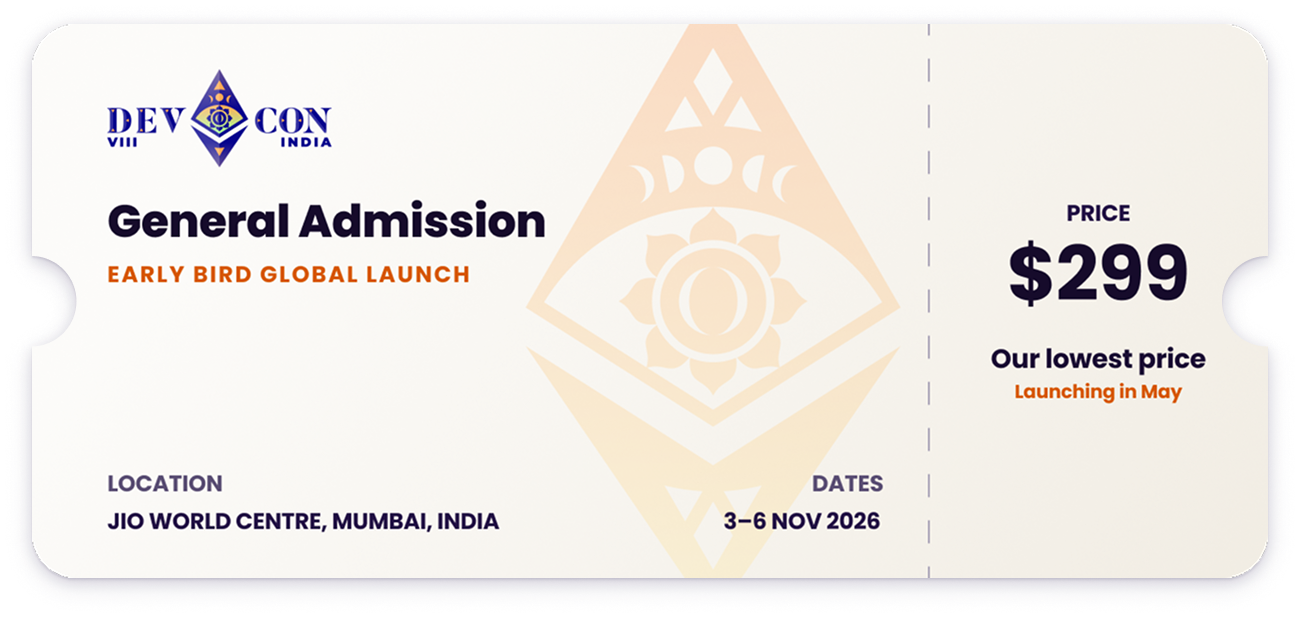
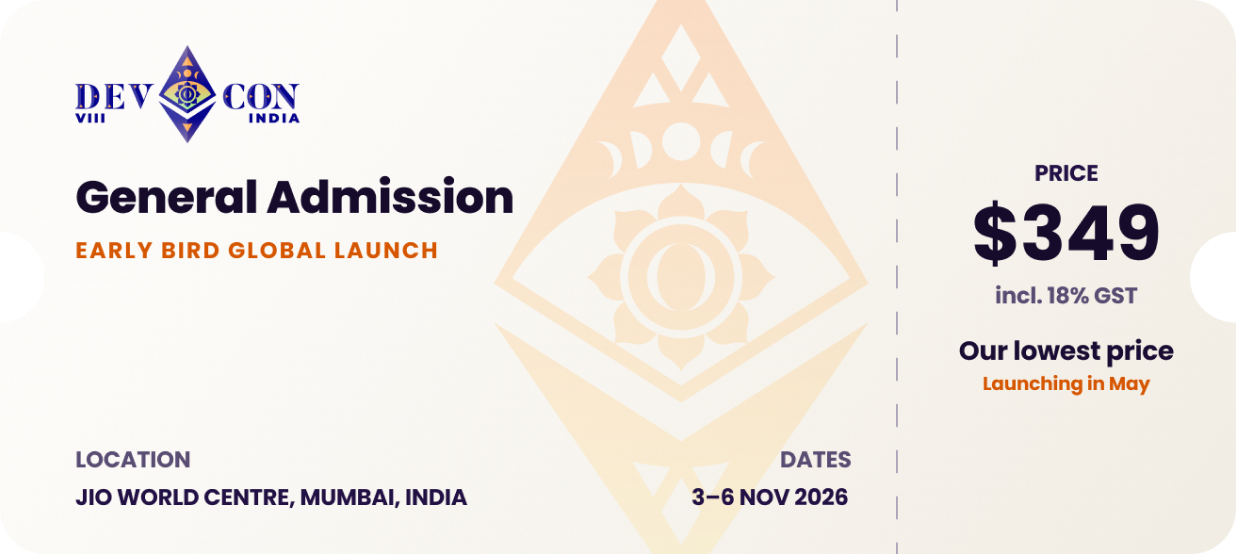
store page copy

diff --git a/devcon/src/pages/tickets/store/index.tsx b/devcon/src/pages/tickets/store/index.tsx
@@ -8,7 +8,7 @@ import themes from '../../themes.module.scss'
 // import { VerificationModal } from 'components/domain/tickets/VerificationModal'
 import { SelfVerificationModal } from 'components/domain/tickets/SelfVerificationModal'
 import { Input } from '@/components/ui/input'
-import { ArrowLeft, CalendarDays, MapPin } from 'lucide-react'
+import { ArrowLeft, ArrowRight, CalendarDays, MapPin } from 'lucide-react'
 import css from './store.module.scss'
 
 // Strip trailing .00 from round prices (e.g. "99.00" → "99", "99.50" → "99.50")
@@ -436,7 +436,60 @@ function StoreContent({
               )}
             </section> */}
 
-            {displayVoucherTickets.length > 0 && (
+            <section className={css['section']} id="applications">
+              <div className={css['section-header']}>
+                <div className={css['section-title-row']}>
+                  <h3 className={css['section-title']}>Applications</h3>
+                  <span className={css['live-badge']}>LIVE</span>
+                </div>
+                <p className={css['section-subtitle']}>
+                  Student ticket applications are now open. Supply is limited so apply early!
+                </p>
+              </div>
+
+              <div className={css['applications-grid']}>
+                <div className={css['application-card']}>
+                  <div className={css['application-card-body']}>
+                    <h3 className={css['application-card-title']}>Indian Students 🇮🇳</h3>
+                    <p className={css['application-card-meta']}>Student ID required at check-in</p>
+                    <p className={css['application-card-description']}>
+                      1000 discounts will be distributed to Indian students looking to dive deeper into the free and
+                      open world of Ethereum.
+                    </p>
+                  </div>
+                  <div className={css['application-card-footer']}>
+                    <span className={css['application-price']}>$25</span>
+                    <Link to="/form/student-application" className={css['apply-btn']}>
+                      Apply now
+                      <ArrowRight size={16} strokeWidth={2.5} />
+                    </Link>
+                  </div>
+                </div>
+
+                <div className={css['application-card']}>
+                  <div className={css['application-card-body']}>
+                    <h3 className={css['application-card-title']}>International Students 🌎</h3>
+                    <p className={css['application-card-meta']}>Student ID required at check-in</p>
+                    <p className={css['application-card-description']}>
+                      An additional 1000 discounts will be distributed to international students who wish to join us in
+                      Mumbai to explore Ethereum.
+                    </p>
+                  </div>
+                  <div className={css['application-card-footer']}>
+                    <span className={css['application-price']}>$99</span>
+                    <Link to="/form/student-application" className={css['apply-btn']}>
+                      Apply now
+                      <ArrowRight size={16} strokeWidth={2.5} />
+                    </Link>
+                  </div>
+                </div>
+              </div>
+
+              <p className={css['gst-note']}>Prices include 18% GST</p>
+            </section>
+
+            {/* Legacy Self.xyz Early Access flow — hidden for now, kept for future re-activation */}
+            {false && displayVoucherTickets.length > 0 && (
               <section className={css['section']} id="discounts">
                 <div className={css['section-header']}>
                   <div className={css['section-title-row']}>
@@ -591,57 +644,50 @@ function StoreContent({
                 <div className={css['coming-soon-card']}>
                   <div className={css['coming-soon-card-body']}>
                     <h3 className={css['coming-soon-card-title']}>{'Early Bird GA \ud83d\udc24'}</h3>
-                    <p className={css['card-meta']}>Launching later this year</p>
+                    <p className={css['card-meta']}>Launches May 12</p>
                     <p className={css['card-description']}>
                       Early-bird discount of the original, anon-friendly Devcon ticket.
                     </p>
                   </div>
                   <div className={css['coming-soon-card-footer']}>
                     <div className={css['coming-soon-card-pricing']}>
-                      <span className={css['coming-soon-price']}>$299</span>
-                      <span className={css['coming-soon-price-original']}>$599</span>
+                      <span className={css['coming-soon-price']}>$349</span>
+                      <span className={css['coming-soon-price-original']}>$699</span>
                     </div>
-                    <span className={css['coming-soon-availability']}>Coming soon!</span>
+                    <span className={css['coming-soon-availability']}>Our lowest price</span>
                   </div>
                 </div>
 
-                {/* <div className={css['coming-soon-card']}>
-                  <div className={css['coming-soon-card-body']}>
-                    <h3 className={css['coming-soon-card-title']}>{'Youth Ticket (3\u201317) \ud83c\udf31'}</h3>
-                    <p className={css['card-meta']}>Consent form submission & ID/proof required at Registration.</p>
-                    <p className={css['card-description']}>
-                      {"Whether you're a younger attendee, or bringing your child."}
-                    </p>
-                  </div>
-                  <div className={css['coming-soon-card-footer']}>
-                    <div className={css['coming-soon-card-pricing']}>
-                      <span className={css['coming-soon-price']}>$19</span>
-                    </div>
-                    <span className={css['coming-soon-availability']}>Coming soon!</span>
-                  </div>
-                </div> */}
-
                 <div className={css['coming-soon-card']}>
                   <div className={css['coming-soon-card-body']}>
-                    <h3 className={css['coming-soon-card-title']}>{'Student Discount \ud83c\udf93'}</h3>
-                    <p className={css['card-meta']}>School/University ID required at check-in</p>
+                    <h3 className={css['coming-soon-card-title']}>{'Indian Residents \ud83c\udde6\ud83c\uddfa'}</h3>
+                    <p className={css['card-meta']}>Launches May 12</p>
                     <p className={css['card-description']}>
-                      500 discounts will be distributed this year to University students from around the world who wish
-                      to explore Ethereum.
+                      Indian residents can apply using{' '}
+                      <a
+                        href="https://self.xyz"
+                        target="_blank"
+                        rel="noopener noreferrer"
+                        className={css['inline-link']}
+                      >
+                        Self.xyz
+                      </a>
+                      . Use your Aadhaar Card &amp; Zero-Knowledge Proofs to prove Indian residency.
                     </p>
                   </div>
                   <div className={css['coming-soon-card-footer']}>
                     <div className={css['coming-soon-card-pricing']}>
-                      <span className={css['coming-soon-price']}>$25</span>
+                      <span className={css['coming-soon-price']}>$149</span>
+                      <span className={css['coming-soon-price-original']}>$349</span>
                     </div>
-                    <span className={css['coming-soon-availability']}>Coming soon!</span>
+                    <span className={css['coming-soon-availability']}>ID required at Registration</span>
                   </div>
                 </div>
 
                 <div className={css['coming-soon-card']}>
                   <div className={css['coming-soon-card-body']}>
                     <h3 className={css['coming-soon-card-title']}>{'Builder Discount \ud83e\udd84'}</h3>
-                    <p className={css['card-meta']}>ID required at Registration</p>
+                    <p className={css['card-meta']}>Launches in June</p>
                     <p className={css['card-description']}>
                       For builders of all kinds who actively volunteer or contribute their time to the growth, research
                       and development of Ethereum or the ecosystem.
@@ -649,13 +695,15 @@ function StoreContent({
                   </div>
                   <div className={css['coming-soon-card-footer']}>
                     <div className={css['coming-soon-card-pricing']}>
-                      <span className={css['coming-soon-price']}>$299</span>
-                      <span className={css['coming-soon-price-original']}>$599</span>
+                      <span className={css['coming-soon-price']}>$399</span>
+                      <span className={css['coming-soon-price-original']}>$699</span>
                     </div>
-                    <span className={css['coming-soon-availability']}>Coming soon!</span>
+                    <span className={css['coming-soon-availability']}>ID required at registration</span>
                   </div>
                 </div>
               </div>
+
+              <p className={css['gst-note']}>Prices include 18% GST</p>
             </section>
           </div>
           {!pretixCheckoutUrl && totalQty > 0 && (

diff --git a/devcon/src/pages/tickets/store/store.module.scss b/devcon/src/pages/tickets/store/store.module.scss
@@ -837,3 +837,113 @@
   line-height: 1.43;
   white-space: nowrap;
 }
+
+/* ─── Applications Section (live student applications) ───── */
+
+.applications-grid {
+  display: grid;
+  grid-template-columns: 1fr;
+  gap: 1rem;
+
+  @media (min-width: $breakpoints-lg) {
+    grid-template-columns: 1fr 1fr;
+  }
+}
+
+.application-card {
+  background: #fff;
+  border-radius: 8px;
+  border: 1px solid #dddae2;
+  padding: 1rem;
+  display: flex;
+  flex-direction: column;
+  justify-content: space-between;
+  gap: 1rem;
+}
+
+.application-card-body {
+  display: flex;
+  flex-direction: column;
+  gap: 0.5rem;
+}
+
+.application-card-title {
+  font-size: 1rem;
+  font-weight: 700;
+  color: #160b2b;
+  line-height: 1.5;
+  margin: 0;
+}
+
+.application-card-meta {
+  font-size: 0.875rem;
+  font-weight: 700;
+  color: #d65600;
+  line-height: 1.43;
+  margin: 0;
+}
+
+.application-card-description {
+  font-size: 0.875rem;
+  color: #1a0d33;
+  line-height: 1.43;
+  margin: 0;
+}
+
+.application-card-footer {
+  display: flex;
+  align-items: center;
+  justify-content: space-between;
+  gap: 0.5rem;
+}
+
+.application-price {
+  font-size: 1.25rem;
+  font-weight: 700;
+  color: #160b2b;
+  line-height: 1.44;
+  letter-spacing: -0.5px;
+}
+
+.apply-btn {
+  display: inline-flex;
+  align-items: center;
+  justify-content: center;
+  gap: 0.5rem;
+  height: 40px;
+  padding: 0.5rem 1.25rem 0.5rem 1.5rem;
+  font-size: 0.875rem;
+  font-weight: 700;
+  line-height: 1;
+  color: #1a0d33 !important;
+  background: rgba(255, 255, 255, 0.8);
+  border: 1px solid rgba(34, 17, 68, 0.1);
+  border-radius: 9999px;
+  text-decoration: none !important;
+  white-space: nowrap;
+  transition: background 0.15s, border-color 0.15s;
+
+  &:hover {
+    background: #fff;
+    border-color: rgba(34, 17, 68, 0.2);
+  }
+}
+
+.gst-note {
+  font-size: 0.875rem;
+  color: #594d73;
+  line-height: 1.43;
+  text-align: center;
+  margin: 0.75rem 0 0;
+}
+
+/* Inline link inside coming-soon card descriptions */
+.inline-link {
+  color: #7235ed !important;
+  font-weight: 700;
+  text-decoration: underline !important;
+
+  &:hover {
+    opacity: 0.85;
+  }
+}

diff --git a/devcon/src/pages/tickets/tickets-landing.module.scss b/devcon/src/pages/tickets/tickets-landing.module.scss
@@ -337,6 +337,10 @@
   display: block;
   width: 100%;
   height: auto;
+  filter:
+    drop-shadow(0px 1px 0.5px rgba(34, 17, 68, 0.1))
+    drop-shadow(0px 2px 4px rgba(34, 17, 68, 0.15))
+    drop-shadow(0px 4px 8px rgba(34, 17, 68, 0.1));
 }
 
 .ticket-image-desktop {
